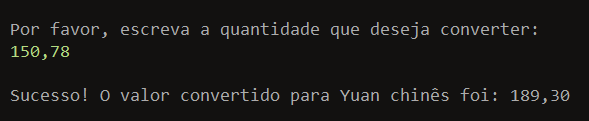
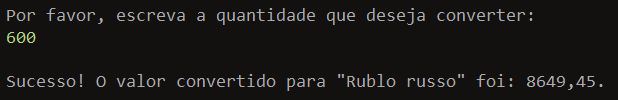
minnor changes

Changed region(s): [[0.0, 0.06, 0.9168, 0.51], [0.0, 0.72, 0.9779, 0.9]]

diff --git a/src/main/java/utils/Message.java b/src/main/java/utils/Message.java
@@ -1,26 +1,24 @@
 package utils;
 
-import utils.MenuOptions;
-
 public class Message {
 
     public static void greetings(){
         System.out.println("-----------------------------------------------");
-        System.out.println("Seja bem-vindo(a) ao super conversor de moedas 3.0");
+        System.out.println("Seja bem-vindo(a) ao conversor de moedas 1.0");
         System.out.println();
     }
 
-    public static void chooseCurrency() {
-        System.out.println("Por favor, selecione uma moeda:");
+    public static void chooseOption() {
+        System.out.println("Por favor, selecione uma opção:");
     }
 
-    public static void showCurrentCurrency(MenuOptions currency) {
-        System.out.printf("Sua moeda atual é: %s", currency.getDescription());
+    public static void showCurrentCurrency(MenuOptions option) {
+        System.out.printf("Você escolheu : %s.", option.getDescription());
         System.out.println();
     }
 
     public static void showNewCurrency(MenuOptions currency) {
-        System.out.printf("Sua nova moeda será: %s", currency.getDescription());
+        System.out.printf("Sua nova moeda será: %s.", currency.getDescription());
         System.out.println();
     }
 
@@ -32,12 +30,12 @@ public class Message {
 
     public static void askTheAmountToExchange() {
         System.out.println();
-        System.out.println("Por favor, escreva a quantidade que deseja converter:");
+        System.out.println("Por favor, escreva a quantidade que deseja converter: ");
     }
 
     public static void convertedAmount(String amount, MenuOptions currency) {
         System.out.println();
-        System.out.printf("Sucesso! O valor convertido para %s foi: %s",
+        System.out.printf("Sucesso! O valor convertido para \"%s\" foi: %s.",
             currency.getDescription(),
             amount);
         System.out.println();
@@ -52,7 +50,7 @@ public class Message {
 
     public static void chooseDifferentOption(MenuOptions option) {
         System.out.println();
-        System.out.printf("Você escolheu %s de novo. Por favor, escolha outra opção", option.getDescription());
+        System.out.printf("Você escolheu \"%s\" de novo. Por favor, escolha outra opção.", option.getDescription());
         System.out.println();
     }
 }

diff --git a/src/main/java/utils/MenuOptions.java b/src/main/java/utils/MenuOptions.java
@@ -50,7 +50,7 @@ public enum MenuOptions {
     }
 
     public static MenuOptions getByNumber(int number) {
-        if(number < 0 || number > values().length) {
+        if(number < 0 || number > 8) {
             return null;
         }
         return values()[number];
@@ -61,11 +61,11 @@ public enum MenuOptions {
         boolean validInput = false;
 
         while(!validInput) {
-            Message.chooseCurrency();
+            Message.chooseOption();
             displayMenu();
             try{
                 choice = scanner.nextInt();
-                if(choice < 0 || choice > MenuOptions.values().length) {
+                if(choice < 0 || choice > MenuOptions.values().length - 1) {
                     System.out.println("Opção inválida!");
                 } else {
                     validInput = true;
@@ -79,7 +79,7 @@ public enum MenuOptions {
         return MenuOptions.getByNumber(choice);
     }
 
-    public static boolean isCurrencyCode(MenuOptions option) {
+    public static boolean isOption(MenuOptions option) {
         return option != MenuOptions.SAIR;
     }
 }

diff --git a/src/main/java/service/CurrencyConversionService.java b/src/main/java/service/CurrencyConversionService.java
@@ -24,7 +24,7 @@ public class CurrencyConversionService {
             MenuOptions newCurrency = null;
 
             option = MenuOptions.chooseOptionFromMenu(scanner);
-            if(MenuOptions.isCurrencyCode(option)) {
+            if(MenuOptions.isOption(option)) {
                 currentCurrency = option;
             } else {
                 break;
